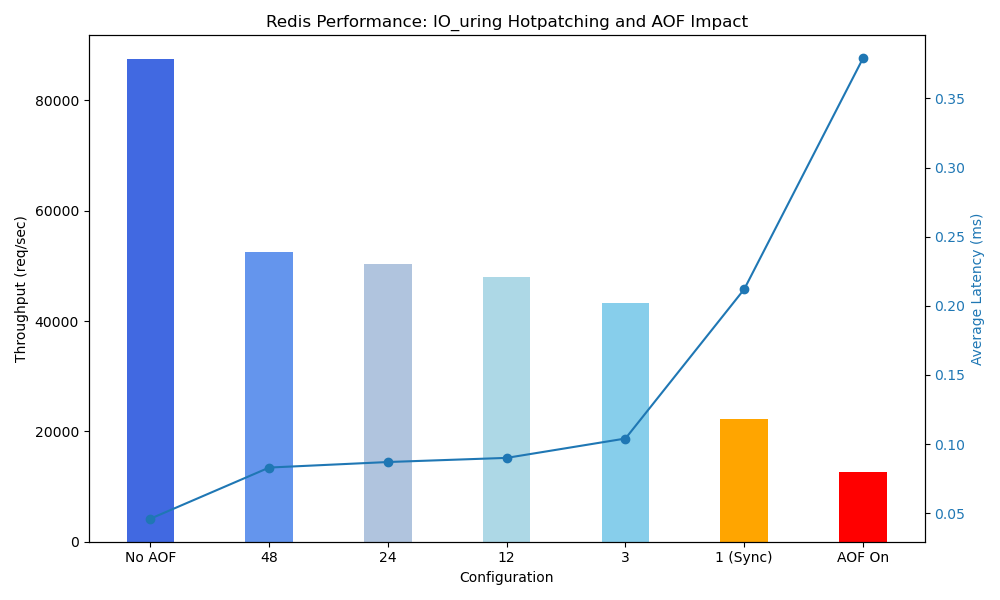
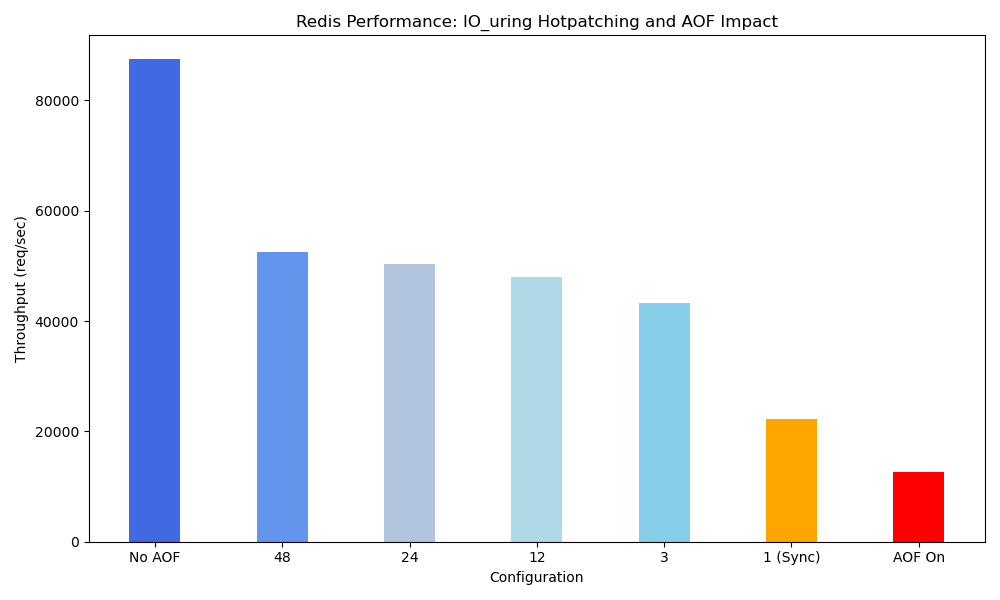
add code for draw redis

diff --git a/redis-bpf/draw.py b/redis-bpf/draw.py
@@ -1,100 +1,89 @@
 import matplotlib.pyplot as plt
 import numpy as np
 
-# Data from the test results
-methods = ['No Attach', 'IO_uring sync', 'IO_uring async', 'Kernel & User async']
-throughput = [15303.39, 19031.67, 39677.82, 64724.92]  # requests per second
-average_latency = [0.309, 0.249, 0.114, 0.066]  # milliseconds
+plt.rcParams.update(
+    {
+        "font.size": 16,
+        "axes.labelsize": 18,
+        "axes.titlesize": 20,
+        "xtick.labelsize": 16,
+        "ytick.labelsize": 16,
+        "legend.fontsize": 16,
+    }
+)
 
-# # Creating the figure and axis objects
-# fig, ax1 = plt.subplots()
+import matplotlib.pyplot as plt
+import numpy as np
 
-# # Plotting the throughput
-# color = 'tab:red'
-# ax1.set_xlabel('Method')
-# ax1.set_ylabel('Throughput (req/sec)', color=color)
-# ax1.bar(methods, throughput, color=color)
-# ax1.tick_params(axis='y', labelcolor=color)
+bar_width = 0.4
 
-# # Creating a second y-axis for average latency
-# ax2 = ax1.twinx()
-# color = 'tab:blue'
-# ax2.set_ylabel('Average Latency (ms)', color=color)
-# ax2.plot(methods, average_latency, color=color, marker='o')
-# ax2.tick_params(axis='y', labelcolor=color)
-
-# # Setting the title and layout
-# plt.title('Performance Comparison for Different Fsync Handling Approaches')
-# fig.tight_layout()
-
-# # # Show the plot
-# # plt.show()
-
-# Changing color for each method and adjusting bar width
-colors_throughput = ['skyblue', 'orange', 'lightgreen', 'purple']
-bar_width = 0.4  # Making the bars less wide
-
-# Creating the figure and axis objects again with the updated settings
-fig, ax1 = plt.subplots()
-
-# Plotting the throughput with different colors for each method
-ax1.set_xlabel('Method')
-ax1.set_ylabel('Throughput (req/sec)', color='black')
-for i in range(len(methods)):
-    ax1.bar(methods[i], throughput[i], color=colors_throughput[i], width=bar_width)
-ax1.tick_params(axis='y', labelcolor='black')
-
-# Creating a second y-axis for average latency with the same color scheme
-ax2 = ax1.twinx()
-color = 'tab:blue'
-ax2.set_ylabel('Average Latency (ms)', color=color)
-ax2.plot(methods, average_latency, color=color, marker='o')
-ax2.tick_params(axis='y', labelcolor=color)
-
-# Setting the title and layout
-plt.title('Performance Comparison for Async Fsync in redis AOF')
-fig.tight_layout()
-
-# save
-plt.savefig('kernel-sync.png')
-# Show the updated plot
-plt.show()
+# Data from the first test results
+methods = ["io_uring sync(Batch 1)", "io_uring async", "Kernel & User async"]
+throughput = [19031.67, 39677.82, 64724.92]  # requests per second
+average_latency = [0.249, 0.114, 0.066]  # milliseconds
 
 # Data from the new test results
-batch_sizes = ['No AOF', '48', '24', '12', '3', '1 (Sync)', 'AOF On']
-throughput_new = [87435.52, 52562.42, 50309.40, 48081.55, 43200.27, 22324.42, 12584.47]  # requests per second
-average_latency_new = [0.046, 0.083, 0.087, 0.090, 0.104, 0.212, 0.379]  # milliseconds
-max_latency_new = [1.623, 2.143, 5.495, 6.575, 3.159, 3.119, 8.375]  # milliseconds
+batch_sizes = ["No AOF", "everysec", "Batch 48", "Batch 24", "Batch 12", "Batch 3", "alwayson"]
+throughput_new = [
+    87435.52,
+    71669.17,
+    52562.42,
+    50309.40,
+    48081.55,
+    43200.27,
+    12584.47,
+]  # requests per second
+average_latency_new = [
+    0.046,
+    0.057,
+    0.083,
+    0.087,
+    0.090,
+    0.104,
+    0.379,
+]  # milliseconds
 
-# Colors for each batch size and method
-colors_new = ['royalblue', 'cornflowerblue', 'lightsteelblue', 'lightblue', 'skyblue', 'orange', 'red']
+# Merging the two test result data into one figure
 
-# Creating the figure and axis objects again with the updated settings
-fig, ax1 = plt.subplots(figsize=(10, 6))
+# Data from the first and second test results
+methods_combined = methods + batch_sizes
+throughput_combined = throughput + throughput_new
+average_latency_combined = average_latency + average_latency_new
 
-# Plotting the throughput with different colors for each batch size
-ax1.set_xlabel('Configuration')
-ax1.set_ylabel('Throughput (req/sec)', color='black')
-for i in range(len(batch_sizes)):
-    ax1.bar(batch_sizes[i], throughput_new[i], color=colors_new[i], width=bar_width)
+# Colors for the combined data
+colors_combined = ["skyblue", "orange", "lightgreen", "purple"] + [
+    "royalblue",
+    "cornflowerblue",
+    "lightsteelblue",
+    "lightblue",
+    "skyblue",
+    "orange",
+    "red",
+    "green",
+]
+# Sorting the data by throughput
+sorted_indices = np.argsort(throughput_combined)
+methods_sorted = np.array(methods_combined)[sorted_indices]
+throughput_sorted = np.array(throughput_combined)[sorted_indices]
+average_latency_sorted = np.array(average_latency_combined)[sorted_indices]
+colors_sorted = np.array(colors_combined)[sorted_indices]
+fig, ax1 = plt.subplots(figsize=(12, 8))
+
+ax1.set_xlabel("Method / Configuration")
+ax1.set_ylabel("Throughput (req/sec)", color="black")
+bars = ax1.bar(methods_sorted, throughput_sorted, color=colors_sorted, width=bar_width)
 ax1.tick_params(axis='y', labelcolor='black')
+ax1.set_xticklabels(methods_sorted, rotation=45, ha="right")
 
-# Creating a second y-axis for average latency with the same color scheme
-ax2 = ax1.twinx()
-ax2.set_ylabel('Average Latency (ms)', color='tab:blue')
-ax2.plot(batch_sizes, average_latency_new, color='tab:blue', marker='o')
-ax2.tick_params(axis='y', labelcolor='tab:blue')
+# Add grid for better alignment
+ax1.grid(True)
 
-# # Creating a third y-axis for max latency
-# ax3 = ax1.twinx()
-# ax3.spines['right'].set_position(('outward', 60))
-# ax3.set_ylabel('Max Latency (ms)', color='tab:green')
-# ax3.plot(batch_sizes, max_latency_new, color='tab:green', marker='^')
-# ax3.tick_params(axis='y', labelcolor='tab:green')
+# Adjust the position of data labels for clarity
+for bar in bars:
+    yval = bar.get_height()
+    plt.text(bar.get_x() + bar.get_width()/2.0, yval + 0.05 * max(throughput_sorted), f"{yval:.2f}", va='center', ha='center')
 
-# Setting the title and layout
-plt.title('Redis Performance: IO_uring Hotpatching and AOF Impact')
 fig.tight_layout()
-plt.savefig('batch-redis.png')
-# Show the updated plot
+
 plt.show()
+plt.savefig("redis_enhanced.png")

diff --git a/deepflow-runtime.casgstatus/benchmark/plot.py b/deepflow-runtime.casgstatus/benchmark/plot.py
@@ -7,7 +7,7 @@ structure_data = ""
 with open("test-data-multi-without-smatrt-ptr.json", "r") as f:
     structure_data = json.load(f)
     
-print(structure_data)
+# print(structure_data)
 
 https_structure = structure_data["https"]
 http_structure = structure_data["http"]
@@ -48,6 +48,8 @@ def calculate_averages(data):
 https_averages = calculate_averages(https_structure)
 http_averages = calculate_averages(http_structure)
 
+print(https_averages)
+print(http_averages)
 
 def calculate_performance_drop(averages, baseline_key):
     performance_drop = {}
@@ -87,6 +89,11 @@ def calculate_performance_drop(averages, baseline_key):
 # Calculating performance drop for HTTPS and HTTP
 https_performance_drop = calculate_performance_drop(https_averages, "no-probe")
 http_performance_drop = calculate_performance_drop(http_averages, "no-probe")
+
+print("\n# performance drop\n")
+
+print(https_performance_drop)
+print(http_performance_drop)
 
 # Helper function to plot the performance drop
 def plot_performance_drop(performance_drop, title):
